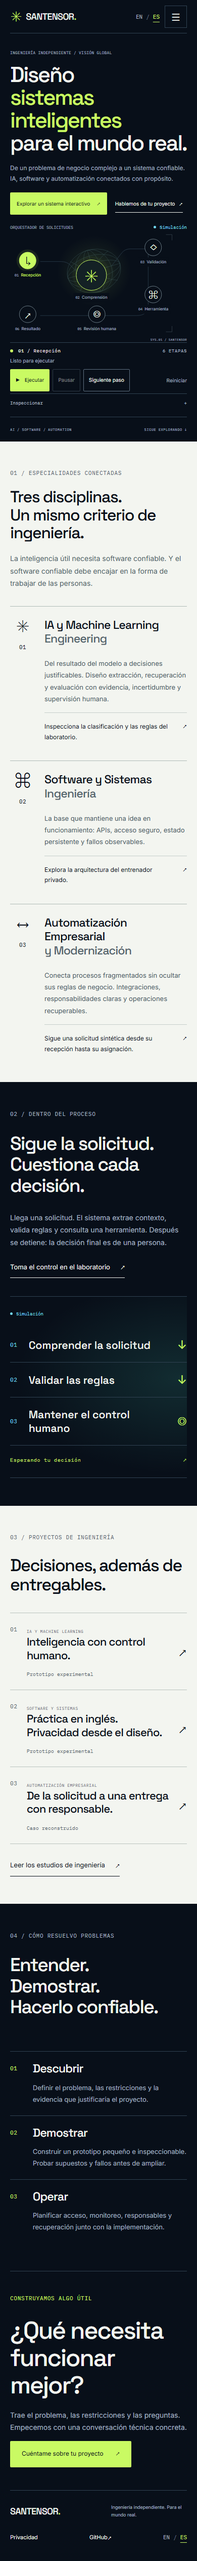
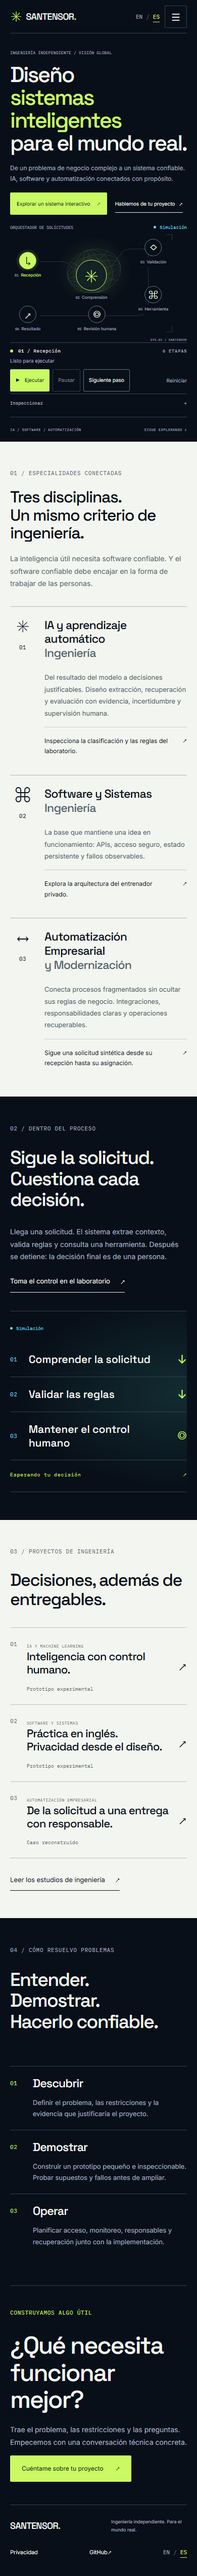
fix: finish Spanish technical labels and evidence validation

diff --git a/es/index.html b/es/index.html
@@ -23,8 +23,8 @@
  </div>
  <details class="inspector" data-inspector><summary>Inspeccionar <span aria-hidden="true">+</span></summary>
  <h3 data-inspect-title>01 / Recepción</h3><p data-inspect-description>Una solicitud ficticia entra al sistema con una marca de tiempo.</p><dl class="evidence" data-evidence></dl><h4 class="mono">Registro de eventos</h4><ol class="event-log" data-events></ol></details>
- </div></div><div class="hero-baseline"><span class="mono">AI / SOFTWARE / AUTOMATION</span><a href="#capabilities" class="mono">SIGUE EXPLORANDO ↓</a></div></section>
- <section class="expertise light" id="capabilities"><div class="wrap"><div class="section-heading"><p class="eyebrow">01 / ESPECIALIDADES CONECTADAS</p><h2>Tres disciplinas.<br>Un mismo criterio de ingeniería.</h2><p>La inteligencia útil necesita software confiable. Y el software confiable debe encajar en la forma de trabajar de las personas.</p></div><div class="disciplines"><article><div class="discipline-mark" aria-hidden="true">✳<span class="mono">01</span></div><h3>IA y Machine Learning<br><span>Engineering</span></h3><p>Del resultado del modelo a decisiones justificables. Diseño extracción, recuperación y evaluación con evidencia, incertidumbre y supervisión humana.</p><a href="/es/labs/">Inspecciona la clasificación y las reglas del laboratorio. <span aria-hidden="true">↗</span></a></article><article><div class="discipline-mark" aria-hidden="true">⌘<span class="mono">02</span></div><h3>Software y Sistemas<br><span>Ingeniería</span></h3><p>La base que mantiene una idea en funcionamiento: APIs, acceso seguro, estado persistente y fallos observables.</p><a href="/es/cases/#study-2">Explora la arquitectura del entrenador privado. <span aria-hidden="true">↗</span></a></article><article><div class="discipline-mark" aria-hidden="true">↔<span class="mono">03</span></div><h3>Automatización Empresarial<br><span>y Modernización</span></h3><p>Conecta procesos fragmentados sin ocultar sus reglas de negocio. Integraciones, responsabilidades claras y operaciones recuperables.</p><a href="/es/labs/">Sigue una solicitud sintética desde su recepción hasta su asignación. <span aria-hidden="true">↗</span></a></article></div></div></section>
+ </div></div><div class="hero-baseline"><span class="mono">IA / SOFTWARE / AUTOMATIZACIÓN</span><a href="#capabilities" class="mono">SIGUE EXPLORANDO ↓</a></div></section>
+ <section class="expertise light" id="capabilities"><div class="wrap"><div class="section-heading"><p class="eyebrow">01 / ESPECIALIDADES CONECTADAS</p><h2>Tres disciplinas.<br>Un mismo criterio de ingeniería.</h2><p>La inteligencia útil necesita software confiable. Y el software confiable debe encajar en la forma de trabajar de las personas.</p></div><div class="disciplines"><article><div class="discipline-mark" aria-hidden="true">✳<span class="mono">01</span></div><h3>IA y aprendizaje automático<br><span>Ingeniería</span></h3><p>Del resultado del modelo a decisiones justificables. Diseño extracción, recuperación y evaluación con evidencia, incertidumbre y supervisión humana.</p><a href="/es/labs/">Inspecciona la clasificación y las reglas del laboratorio. <span aria-hidden="true">↗</span></a></article><article><div class="discipline-mark" aria-hidden="true">⌘<span class="mono">02</span></div><h3>Software y Sistemas<br><span>Ingeniería</span></h3><p>La base que mantiene una idea en funcionamiento: APIs, acceso seguro, estado persistente y fallos observables.</p><a href="/es/cases/#study-2">Explora la arquitectura del entrenador privado. <span aria-hidden="true">↗</span></a></article><article><div class="discipline-mark" aria-hidden="true">↔<span class="mono">03</span></div><h3>Automatización Empresarial<br><span>y Modernización</span></h3><p>Conecta procesos fragmentados sin ocultar sus reglas de negocio. Integraciones, responsabilidades claras y operaciones recuperables.</p><a href="/es/labs/">Sigue una solicitud sintética desde su recepción hasta su asignación. <span aria-hidden="true">↗</span></a></article></div></div></section>
  <section class="workflow-section wrap"><div><p class="eyebrow">02 / DENTRO DEL PROCESO</p><h2>Sigue la solicitud.<br>Cuestiona cada decisión.</h2><p class="section-copy">Llega una solicitud. El sistema extrae contexto, valida reglas y consulta una herramienta. Después se detiene: la decisión final es de una persona.</p><a class="text-link" href="/es/labs/">Toma el control en el laboratorio <span aria-hidden="true">↗</span></a></div><a class="workflow-preview" href="/es/labs/" aria-label="Toma el control en el laboratorio"><span class="mode"><i aria-hidden="true"></i>Simulación</span><div class="workflow-step"><span class="mono">01</span><strong>Comprender la solicitud</strong><span aria-hidden="true">↓</span></div><div class="workflow-step"><span class="mono">02</span><strong>Validar las reglas</strong><span aria-hidden="true">↓</span></div><div class="workflow-step"><span class="mono">03</span><strong>Mantener el control humano</strong><span aria-hidden="true">◎</span></div><p class="mono">Esperando tu decisión <span aria-hidden="true">↗</span></p></a></section>
  <section class="work light"><div class="wrap"><p class="eyebrow">03 / PROYECTOS DE INGENIERÍA</p><h2>Decisiones, además de entregables.</h2><div class="case-rows"><a class="case-row" href="/es/cases/#study-1"><span class="case-number mono">01</span><div><span class="eyebrow">IA Y MACHINE LEARNING</span><h3>Inteligencia con control humano.</h3><span class="case-kind">Prototipo experimental</span></div><span class="case-arrow" aria-hidden="true">↗</span></a><a class="case-row" href="/es/cases/#study-2"><span class="case-number mono">02</span><div><span class="eyebrow">SOFTWARE Y SISTEMAS</span><h3>Práctica en inglés. Privacidad desde el diseño.</h3><span class="case-kind">Prototipo experimental</span></div><span class="case-arrow" aria-hidden="true">↗</span></a><a class="case-row" href="/es/cases/#study-3"><span class="case-number mono">03</span><div><span class="eyebrow">AUTOMATIZACIÓN EMPRESARIAL</span><h3>De la solicitud a una entrega con responsable.</h3><span class="case-kind">Caso reconstruido</span></div><span class="case-arrow" aria-hidden="true">↗</span></a></div><a class="text-link" href="/es/cases/">Leer los estudios de ingeniería <span aria-hidden="true">↗</span></a></div></section>
  <section class="method wrap"><div><p class="eyebrow">04 / CÓMO RESUELVO PROBLEMAS</p><h2>Entender.<br>Demostrar.<br>Hacerlo confiable.</h2></div><ol><li><span class="mono">01</span><div><h3>Descubrir</h3><p>Definir el problema, las restricciones y la evidencia que justificaría el proyecto.</p></div></li><li><span class="mono">02</span><div><h3>Demostrar</h3><p>Construir un prototipo pequeño e inspeccionable. Probar supuestos y fallos antes de ampliar.</p></div></li><li><span class="mono">03</span><div><h3>Operar</h3><p>Planificar acceso, monitoreo, responsables y recuperación junto con la implementación.</p></div></li></ol></section><section class="contact-band wrap"><p class="eyebrow">CONSTRUYAMOS ALGO ÚTIL</p><div><h2>¿Qué necesita<br>funcionar mejor?</h2><div><p>Trae el problema, las restricciones y las preguntas. Empecemos con una conversación técnica concreta.</p><a class="button primary" href="/es/contact/">Cuéntame sobre tu proyecto <span aria-hidden="true">↗</span></a></div></div></section><noscript><p class="wrap nojs">La navegación y el contenido funcionan sin JavaScript. Actívalo para ejecutar el simulador local y preparar un borrador de correo.</p></noscript></main><footer class="site-footer wrap"><a class="wordmark" href="/es/">SANTENSOR<span class="brand-dot">.</span></a><p>Ingeniería independiente. Para el mundo real.</p><nav aria-label="Privacidad"><a href="/es/privacy/">Privacidad</a><a href="https://github.com/Blaister9/santensor.github.io">GitHub <span aria-hidden="true">↗</span></a><a class="language-switch footer-language" data-language="en" href="/" lang="en" hreflang="en" aria-label="Cambiar a inglés" title="El idioma corresponde al enlace que abres. Tu selección se recuerda en este dispositivo."><span >EN</span><span class="language-divider" aria-hidden="true">/</span><span class="selected">ES</span></a></nav></footer></body></html>

diff --git a/es/labs/index.html b/es/labs/index.html
@@ -13,7 +13,7 @@
  <path d="M566 7h24v24M566 414h24v-24M9 390v24h24" stroke="#52646d"/>
  </svg>
  <button type="button" class="system-node node-0" data-node="0" style="--node-x:9%;--node-y:25%" aria-label="Inspeccionar etapa: Recepción" aria-pressed="true"><span class="node-symbol" aria-hidden="true">↳</span><span class="node-label"><small>01</small> Recepción</span></button><button type="button" class="system-node node-1" data-node="1" style="--node-x:46%;--node-y:31%" aria-label="Inspeccionar etapa: Comprensión" aria-pressed="false"><span class="node-symbol" aria-hidden="true">✳</span><span class="node-label"><small>02</small> Comprensión</span></button><button type="button" class="system-node node-2" data-node="2" style="--node-x:80%;--node-y:13%" aria-label="Inspeccionar etapa: Validación" aria-pressed="false"><span class="node-symbol" aria-hidden="true">◇</span><span class="node-label"><small>03</small> Validación</span></button><button type="button" class="system-node node-3" data-node="3" style="--node-x:83%;--node-y:56%" aria-label="Inspeccionar etapa: Herramienta" aria-pressed="false"><span class="node-symbol" aria-hidden="true">⌘</span><span class="node-label"><small>04</small> Herramienta</span></button><button type="button" class="system-node node-4" data-node="4" style="--node-x:49%;--node-y:80%" aria-label="Inspeccionar etapa: Revisión humana" aria-pressed="false"><span class="node-symbol" aria-hidden="true">◎</span><span class="node-label"><small>05</small> Revisión humana</span></button><button type="button" class="system-node node-5" data-node="5" style="--node-x:10%;--node-y:77%" aria-label="Inspeccionar etapa: Resultado" aria-pressed="false"><span class="node-symbol" aria-hidden="true">↗</span><span class="node-label"><small>06</small> Resultado</span></button>
- <span class="canvas-coordinate mono" aria-hidden="true">SYS.01 / REQUEST</span>
+ <span class="canvas-coordinate mono" aria-hidden="true">SYS.01 / SOLICITUD</span>
  </div>
  <div class="system-readout"><span class="signal" aria-hidden="true"></span><strong class="mono" data-current>01 / Recepción</strong><span class="readout-count mono">6 ETAPAS</span></div>
  <p class="system-status" role="status" data-status>Listo para ejecutar</p>
@@ -21,6 +21,6 @@
  <p class="error" role="alert" data-error></p><button class="button primary" data-retry hidden>Reintentar servicio</button>
  <div class="human-review" data-review hidden><p data-review-hint>Ni las reglas ni un modelo autorizan por sí solos. La decisión final es tuya.</p><div class="actions"><button class="button small primary" data-approve>Aprobar</button><button class="button small secondary" data-reject>Rechazar</button><button class="button small secondary" data-correct hidden>Derivar a revisión manual</button></div></div>
  </div>
- <section class="inspector" data-inspector aria-label="Inspector de eventos"><div class="inspector-header"><span class="mono">Inspector de eventos</span><span class="mono">JSON / TRACE</span></div><div class="timeline" data-timeline role="group" aria-label="Línea temporal del proceso"><button data-node="0" aria-pressed="true"><span>01</span>Recepción</button><button data-node="1" aria-pressed="false"><span>02</span>Comprensión</button><button data-node="2" aria-pressed="false"><span>03</span>Validación</button><button data-node="3" aria-pressed="false"><span>04</span>Herramienta</button><button data-node="4" aria-pressed="false"><span>05</span>Revisión humana</button><button data-node="5" aria-pressed="false"><span>06</span>Resultado</button></div>
+ <section class="inspector" data-inspector aria-label="Inspector de eventos"><div class="inspector-header"><span class="mono">Inspector de eventos</span><span class="mono">JSON / TRAZA</span></div><div class="timeline" data-timeline role="group" aria-label="Línea temporal del proceso"><button data-node="0" aria-pressed="true"><span>01</span>Recepción</button><button data-node="1" aria-pressed="false"><span>02</span>Comprensión</button><button data-node="2" aria-pressed="false"><span>03</span>Validación</button><button data-node="3" aria-pressed="false"><span>04</span>Herramienta</button><button data-node="4" aria-pressed="false"><span>05</span>Revisión humana</button><button data-node="5" aria-pressed="false"><span>06</span>Resultado</button></div>
  <h2 data-inspect-title>01 / Recepción</h2><p data-inspect-description>Una solicitud ficticia entra al sistema con una marca de tiempo.</p><dl class="evidence" data-evidence></dl><h3 class="mono">Registro de eventos</h3><ol class="event-log" data-events></ol></section>
  </div></section><p class="lab-limits wrap">IA real no habilitada. Requiere un backend seguro y un presupuesto de consumo autorizado explícitamente.</p><noscript><p class="wrap nojs">La navegación y el contenido funcionan sin JavaScript. Actívalo para ejecutar el simulador local y preparar un borrador de correo.</p></noscript></main><footer class="site-footer wrap"><a class="wordmark" href="/es/">SANTENSOR<span class="brand-dot">.</span></a><p>Ingeniería independiente. Para el mundo real.</p><nav aria-label="Privacidad"><a href="/es/privacy/">Privacidad</a><a href="https://github.com/Blaister9/santensor.github.io">GitHub <span aria-hidden="true">↗</span></a><a class="language-switch footer-language" data-language="en" href="/labs/" lang="en" hreflang="en" aria-label="Cambiar a inglés" title="El idioma corresponde al enlace que abres. Tu selección se recuerda en este dispositivo."><span >EN</span><span class="language-divider" aria-hidden="true">/</span><span class="selected">ES</span></a></nav></footer></body></html>
